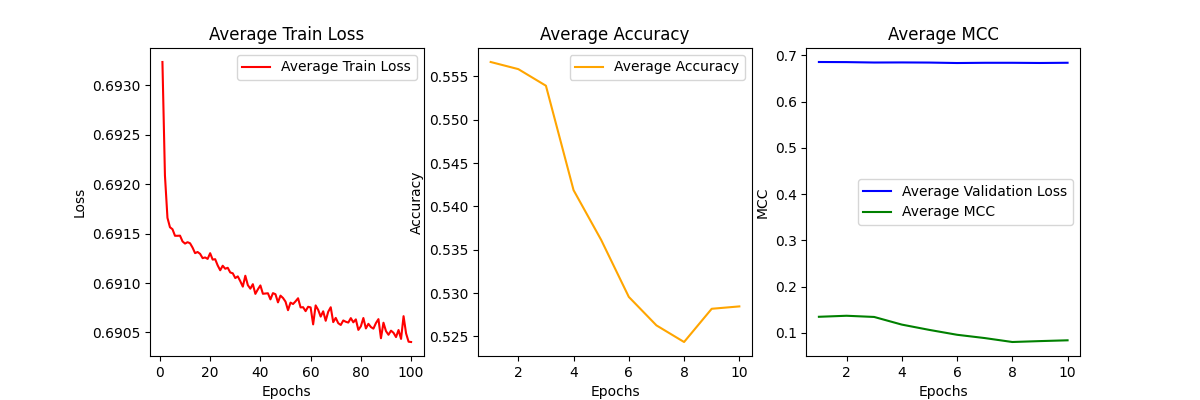
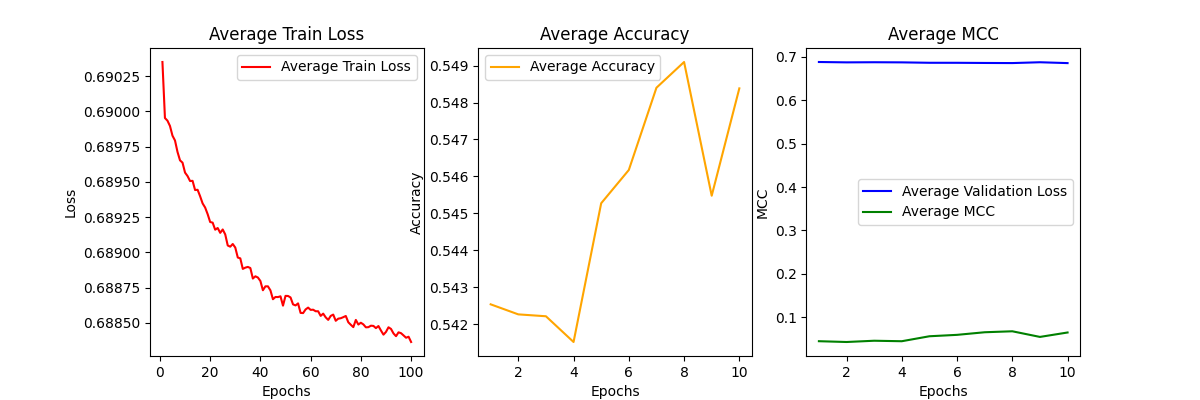
2.更换我们自己数据集进行验证 --liuyu

diff --git a/utils/util.py b/utils/util.py
@@ -38,19 +38,46 @@ import pandas as pd
 #         filtered_df.to_csv(new_csv, index=False)
 
 #制作label
+# for ticker_csv in os.listdir("/home/users/liuyu/Framework/dataset/train/price/"):
+#     source_path = os.path.join("/home/users/liuyu/Framework/dataset/train/price/", ticker_csv)
+#     data = pd.read_csv(source_path)
+#     data['Label'] = (data['Close'].shift(-1) - data['Close'] > 0).astype(int)
+#     data.to_csv(source_path, index=False)
+#
+#
+# for ticker_csv in os.listdir("/home/users/liuyu/Framework/dataset/val/price/"):
+#     source_path = os.path.join("/home/users/liuyu/Framework/dataset/val/price/", ticker_csv)
+#     data = pd.read_csv(source_path)
+#     data['Label'] = (data['Close'].shift(-1) - data['Close'] > 0).astype(int)
+#     data.to_csv(source_path, index=False)
+
+#计算数据集中的None值和空值数量
 count = 0
+null_columns = {}
+
 for ticker_csv in os.listdir("/home/users/liuyu/Framework/dataset/train/price/"):
     source_path = os.path.join("/home/users/liuyu/Framework/dataset/train/price/", ticker_csv)
     data = pd.read_csv(source_path)
-    data['Label'] = (data['Close'].shift(-1) - data['Close'] > 0).astype(int)
-    data.to_csv(source_path, index=False)
 
+    # 计算空值数量
+    null_count = data.isnull().sum().sum()
+    na_count = data.isna().sum().sum()
+    count += null_count + na_count
 
-for ticker_csv in os.listdir("/home/users/liuyu/Framework/dataset/val/price/"):
-    source_path = os.path.join("/home/users/liuyu/Framework/dataset/val/price/", ticker_csv)
-    data = pd.read_csv(source_path)
-    data['Label'] = (data['Close'].shift(-1) - data['Close'] > 0).astype(int)
-    data.to_csv(source_path, index=False)
+    # 记录空值所在的列
+    if null_count > 0 or na_count > 0:
+        # 只保留空值数量大于零的列
+        null_columns[ticker_csv] = {
+            'null_counts': {col: count for col, count in data.isnull().sum().to_dict().items() if count > 0},
+            'na_counts': {col: count for col, count in data.isna().sum().to_dict().items() if count > 0}
+        }
+
+        print(f"Total null and na values in {ticker_csv}: {null_count + na_count}")
+        print(f"Null values in columns: {null_columns[ticker_csv]['null_counts']}")
+        print(f"Na values in columns: {null_columns[ticker_csv]['na_counts']}")
+
+print(f"Total null and na values across all files: {count}")
+print(f"Null and na values in each file: {null_columns}")
 
 
 

diff --git a/my_parser.py b/my_parser.py
@@ -7,13 +7,13 @@ parser = argparse.ArgumentParser()
 
 
 # TODO 常改动参数
-parser.add_argument('--train_folder', default='/home/users/liuyu/experiment/ACL18_D/fill0/train/', type=str)
-parser.add_argument('--val_folder', default='/home/users/liuyu/experiment/ACL18_D/fill0/val/', type=str)
+parser.add_argument('--train_folder', default='/home/users/liuyu/Framework/dataset/train/price', type=str)#/home/users/liuyu/experiment/ACL18_D/fill0/train/  /home/users/liuyu/Framework/dataset/train/price
+parser.add_argument('--val_folder', default='/home/users/liuyu/Framework/dataset/val/price', type=str)
 parser.add_argument('--test_folder', default='/home/users/liuyu/experiment/ACL18_D/fill0/test/', type=str)
 parser.add_argument('--epochs', default=100, type=int) # 训练轮数
 parser.add_argument('--model', default="lstm", type=str) # 模型名称 lstm mlp
 parser.add_argument('--layers', default=2, type=int) # 层数
-parser.add_argument('--input_size', default=6, type=int) #输入特征的维度
+parser.add_argument('--input_size', default=5, type=int) #输入特征的维度
 parser.add_argument('--hidden_size', default=32, type=int) #隐藏层的维度
 parser.add_argument('--lr', default=0.0001, type=float) #learning rate 学习率
 parser.add_argument('--weight_decay', default=1e-4, type=float)

diff --git a/train.py b/train.py
@@ -29,7 +29,7 @@ def train():
         model = lstm(input_size=args.input_size, hidden_size=args.hidden_size, num_layers=args.layers , output_size=2, dropout=args.dropout, batch_first=args.batch_first )
 
     if args.model == "mlp":
-        model = SimpleMLPModel()
+        model = SimpleMLPModel(input_size=args.input_size)
 
     model.to(device)
     criterion = nn.CrossEntropyLoss().to(device)  # 定义损失函数

diff --git a/utils/dataloader.py b/utils/dataloader.py
@@ -40,7 +40,7 @@ class StockDataset(torch.utils.data.Dataset):
             self,
             csv_files=[],
             look_back=1,
-            features_columns=['Open', 'High', 'Low', 'Close', 'Adj Close', 'Volume'],
+            features_columns=['Open', 'High', 'Low', 'Close', 'Adj Close'],
             label_columns=['Label'],
     ):
         self.features, self.labels = [], []

diff --git a/main.py b/main.py
@@ -6,4 +6,4 @@ from test import test
 
 if __name__ == '__main__':
     train()
-    test()
+    # test()
